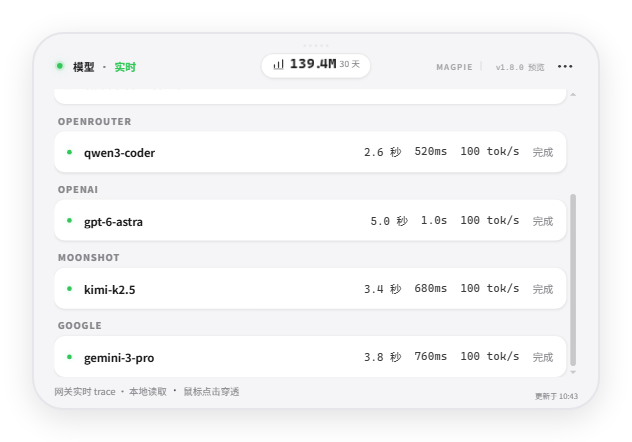
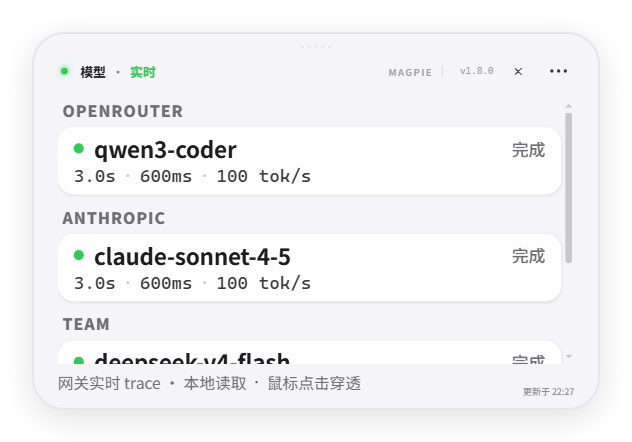
docs: refresh the card screenshots for the readable rows
The multi and single captures now come from the real card at its shipped 316x221 window, device scale 2, fed through the same src/main.js harness the UI regressions use, so they show the two-tier rows at their real on-screen sizes. The README describes the two tiers and the reroute chip's new place, the stale v1.6.0 note moves to v1.8.0, and the test cases record why the canvas shrank to 500x333 and the full regression baseline (227 unit, 57 UI).

diff --git a/docs/test-cases/2026-11-01-card-legibility-test-cases.md b/docs/test-cases/2026-11-01-card-legibility-test-cases.md
@@ -1,0 +1,50 @@
+# 卡片可读性：按出厂尺寸阅读 / 双行模型行 · 测试用例（v1.8.0）
+
+- 日期：2026-11-01
+- 对应需求：默认卡片「字太小、看不清」「文字被裁」——不靠手动放大，卡片本身在 316×221 窗口下就要读得清
+- 相关文档：`README.md`、`docs/test-cases/2026-11-01-card-shrink-scroll-drag-test-cases.md`
+- 自动化位置：`tests/ui/model-list.cjs`（真实 Electron）、`tests/ui/pointer-input.cjs`、`tests/ui/drag-bounds.cjs`
+
+## 背景与根因
+
+上一轮把窗口从 632×442 减半到 316×221，但卡片画布仍是 600×400：`--ui ≈ 0.47`，行内 12px 文字到屏幕只剩 5.6px，模型名 14px 只剩 6.6px，测量值更小。用户实际的感受是「看不了」「被裁」。
+
+本轮把画布改为 500×333、每行改双行：
+
+- 画布 500×333 → `--ui ≈ 0.5616`（316×221 窗口，stage 280×187）。
+- 行高 60（画布px）：第一行模型名 20px + 右侧状态 16px；第二行测量值 16px、中点分隔。屏幕上是名称 ≈11.2px、测量 ≈9px。
+- 状态从等高红线改为带白底的状态标签，压在名称行右侧；「改道 N 次」橙色小标并到测量行开头（在自增内层里垂直居中）。
+- 时长在卡片行内改印 ascii 形式（`3.0s`），与同一行的 `600ms`、`100 tok/s` 一致；未缩放的请求明细窗仍用中文 `3.0 秒`。
+- 其他卡片部位（provider 头 16、空表态 16、页脚 14）随画布一起提高；列表高度约 179 画布px，可完整放 1 个 provider 组 + 下个组的头，其余滚动。
+
+## 用例表
+
+| ID | 标题 | 前置 | 步骤 | 预期 | 自动化位置 |
+| --- | --- | --- | --- | --- | --- |
+| LG-01 | 默认窗口的画布缩放 | 默认 316×221 | 读 `--ui` | `--ui ≈ 0.56`（500×333 画布 / 316×221 窗口面积） | `tests/ui/model-list.cjs`「1b」读取 `--ui` 并断言 |
+| LG-02 | 模型行分两行阅读 | 已渲染 | 读 `.row-main` / `.row-metrics` | 第一行含 `.model-name` 与 `.state-word`；第二行含时长、首字节、tok/s 三段 | `tests/ui/model-list.cjs`「1b」`mainHasName/mainHasState/metricsHasAll` |
+| LG-03 | 画布字号下限 | 已渲染 | 读计算字号 | 模型名 ≥ 20px、测量行 ≥ 16px（画布px）；行高 = 60 | `tests/ui/model-list.cjs`「1b」字号与 `rowHeight` 断言 |
+| LG-04 | 到屏幕后的可读下限 | `--ui` 0.56 | 字号 × `--ui` | 模型名 ≥ 11px、测量行 ≥ 8.5px | `tests/ui/model-list.cjs`「1b」`nameSize*ui`、`metricSize*ui` |
+| LG-05 | 双行行不再单行裁字 | 已渲染 | 视觉与截图 | 名称与状态同一行、测量在下一行；`600ms · 100 tok/s` 不被裁 | `tests/ui/model-list.cjs` 截图 `groups.png`；`docs/screenshots/multi.png`、`single.png` |
+| LG-06 | 时长在卡片行改印 ascii | 已渲染 | 读 `.col-ms` | `3.0s`（不再是 `3.0 秒`） | `tests/ui/model-list.cjs`「1. 每组一行」与「live 行保留完成指标」 |
+| LG-07 | 改道标记仍在 | 有 `tries` 改道 | 读 `.row-reroute` | 文本 `改道 1 次`，橙色小标落在测量行开头 | `tests/ui/model-list.cjs`「1. 每组一行」 |
+| LG-08 | 缩放后行距与热区仍正确 | 默认窗口 | 读行 `clientHeight`、点击行中心 | 行的热区在屏幕坐标下仍能点开请求明细（`--ui` 参与换算） | `tests/ui/pointer-input.cjs`（17 项）、`tests/ui/detail-window.cjs`「a real mouse click on a row opens the detail window」 |
+| LG-09 | 滚动与拖动不受双行影响 | 多组数据 | 滚轮、按住行拖动 | 列表内部滚动；任意位置拖动正常，拖动不开浮窗 | `tests/ui/model-list.cjs`「7b/7c/7d」、`tests/ui/drag-bounds.cjs`（8 项） |
+
+## 回归基线（2026-11-01 22:30 后重跑）
+
+| 回归 | PASS | 命令 |
+| --- | --- | --- |
+| `npm test`（单测） | 227/227 | `node tools/run-tests.cjs` |
+| `tests/ui/model-list.cjs` | 17/17 | `node node_modules/electron/dist/electron.exe tests/ui/model-list.cjs --disable-gpu --no-sandbox` |
+| `tests/ui/pointer-input.cjs` | 17/17 | 同上（换文件） |
+| `tests/ui/drag-bounds.cjs` | 8/8 | 同上（换文件） |
+| `tests/ui/detail-window.cjs` | 15/15 | 同上（换文件） |
+
+## 说明与坑
+
+- **为什么把画布换成 500×333 而不是继续放大窗口**：窗口是用户放在桌角的常驻卡片，保持 316×221；画布越小缩放比越高。500×333 是「字号能看清」与「一屏仍能看到一个组 + 下一组头」的交点。清单高度约 179 画布px。
+- **测量行为什么用 ascii**：中文单位在 9px 屏幕上发虚；同一行上 `600ms`、`100 tok/s` 本来就用 ascii，`3.0s` 跟它们一致。请求明细窗没有缩放，仍用中文完整写法。
+- **状态标签压在名称行右端**：名称是单行省略（`text-overflow: ellipsis`），标签占据右侧固定宽度，名称用 `flex:1; min-width:0` 收窄，过长仍打点不换行。
+- **改道小标**：本质是 `.row-reroute` 放进 `.row-metrics` 内层 flex（`align-items:center`），因此与三个测量值同一视觉基线，不额外占一行。
+- **测试读的是画布字号**：`getComputedStyle` 返回画布 px；是否「到屏幕够大」要再乘 `--ui`（LG-04），这两层分开断言，避免再次出现「字号看着不小但屏幕上看不清」。

diff --git a/README.md b/README.md
@@ -14,7 +14,7 @@ A transparent, borderless card that blocks clicks within the panel, reads magpie
 
 ![Busy Magpie 模型会话列表](./docs/screenshots/multi.png)
 
-> 截图为 v1.6.0 界面，使用本地模拟数据，账号已打码。
+> 截图为 v1.8.0 界面，使用本地模拟数据，账号已打码。
 
 ## 为什么是它
 
@@ -62,13 +62,13 @@ setx BUSY_MAGPIE_APP "D:\Apps\Busy Magpie\Busy Magpie.exe"
 
 ![单个模型](./docs/screenshots/single.png)
 
-只有一个模型有请求时，列表只有一行：模型名、状态、时长、首字节和 tok/s。
+只有一个模型有请求时，列表只有一行：第一行是模型名和状态，第二行是时长、首字节和 tok/s。
 
 ### 多个模型
 
 ![多个模型](./docs/screenshots/multi.png)
 
-多个模型各占一行，按最近活动倒序排列，最活跃的在最上面。改道过的行在末尾带「改道 N 次」小字；模型很多时列表内部滚动（滚轮或滚动条）。
+多个模型各占一行，按最近活动倒序排列，最活跃的在最上面。改道过的行在测量行开头带「改道 N 次」的橙色小标；模型很多时列表内部滚动（滚轮或滚动条）。
 
 ### 设置
 

diff --git a/docs/test-cases/2026-11-01-card-shrink-scroll-drag-test-cases.md b/docs/test-cases/2026-11-01-card-shrink-scroll-drag-test-cases.md
@@ -35,3 +35,5 @@
 - **拖动判定**：`pointerdown` 记录起点，`pointermove` 超过 4px 才调用 `dragStart`；**起手不设指针捕获**（否则 click 会被重定向到 `#card`，行的点击失效），只有判定为拖动后才捕获，并用 `suppressClick` 吞掉拖动后的 click。
 - **滚动**：`.provider-groups` 需要 `pointer-events: auto` 才能收到滚轮/拖动（卡片整体是 `#app` 的 `pointer-events: none`）。
 - **CDP 测不出拖动位移**：CDP 的 `Input.dispatchMouseEvent` 不会移动 Electron 的 `screen.getCursorScreenPoint()`（那是真实光标），所以拖动位移必须用 `sendInputEvent` 的 UI 回归来验证。
+
+> 2026-11-01 晚：画布从 600×400 改为 500×333，`--ui` 从 ≈0.4675 变为 ≈0.56，模型行改为双行（行高 60 画布px），本文 PG-S02 的数值以当时为准；现行布置见 `2026-11-01-card-legibility-test-cases.md`。
